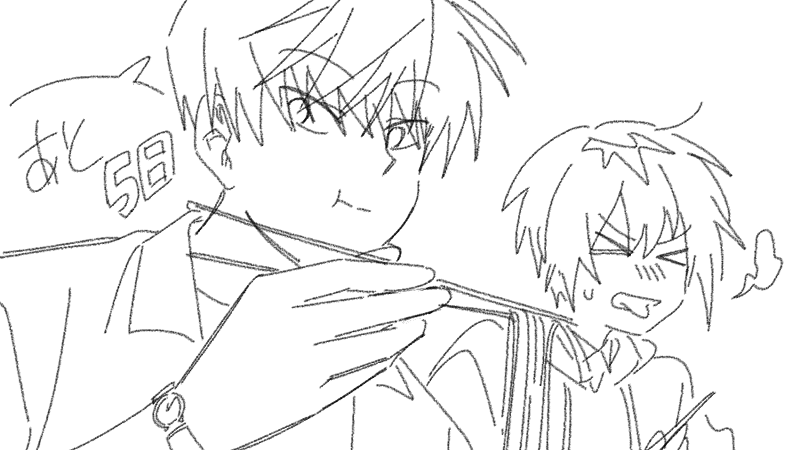
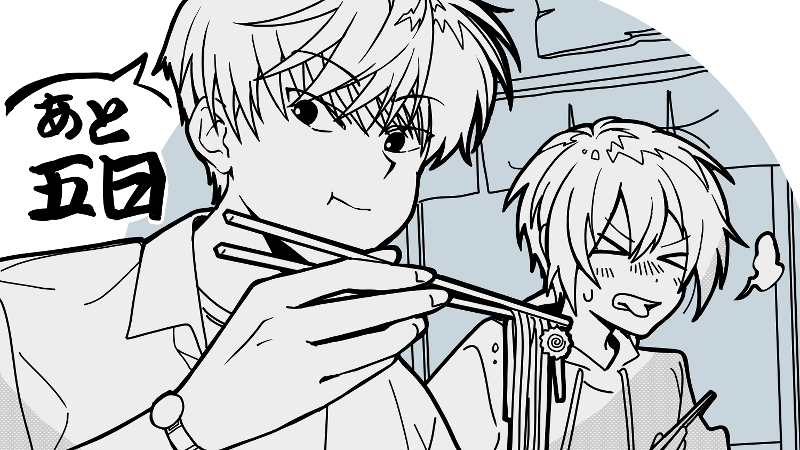
/

diff --git a/special.html b/special.html
@@ -33,7 +33,7 @@
     <img src="https://via.placeholder.com/800x450?text=800x450" alt="카운트다운 D-8" class="gallery-item" onclick="openModal(this)">
     <img src="image/special07.png" alt="카운트다운 D-7" class="gallery-item" onclick="openModal(this)">
     <img src="https://via.placeholder.com/800x450?text=800x450" alt="카운트다운 D-6" class="gallery-item" onclick="openModal(this)">
-    <img src="https://via.placeholder.com/800x450?text=800x450" alt="카운트다운 D-5" class="gallery-item" onclick="openModal(this)">
+    <img src="image/special05.png" alt="카운트다운 D-5" class="gallery-item" onclick="openModal(this)">
     <img src="https://via.placeholder.com/800x450?text=800x450" alt="카운트다운 D-4" class="gallery-item" onclick="openModal(this)">
     <img src="image/special03.png" alt="카운트다운 D-3" class="gallery-item" onclick="openModal(this)">
     <img src="https://via.placeholder.com/800x450?text=800x450" alt="카운트다운 D-2" class="gallery-item" onclick="openModal(this)">
